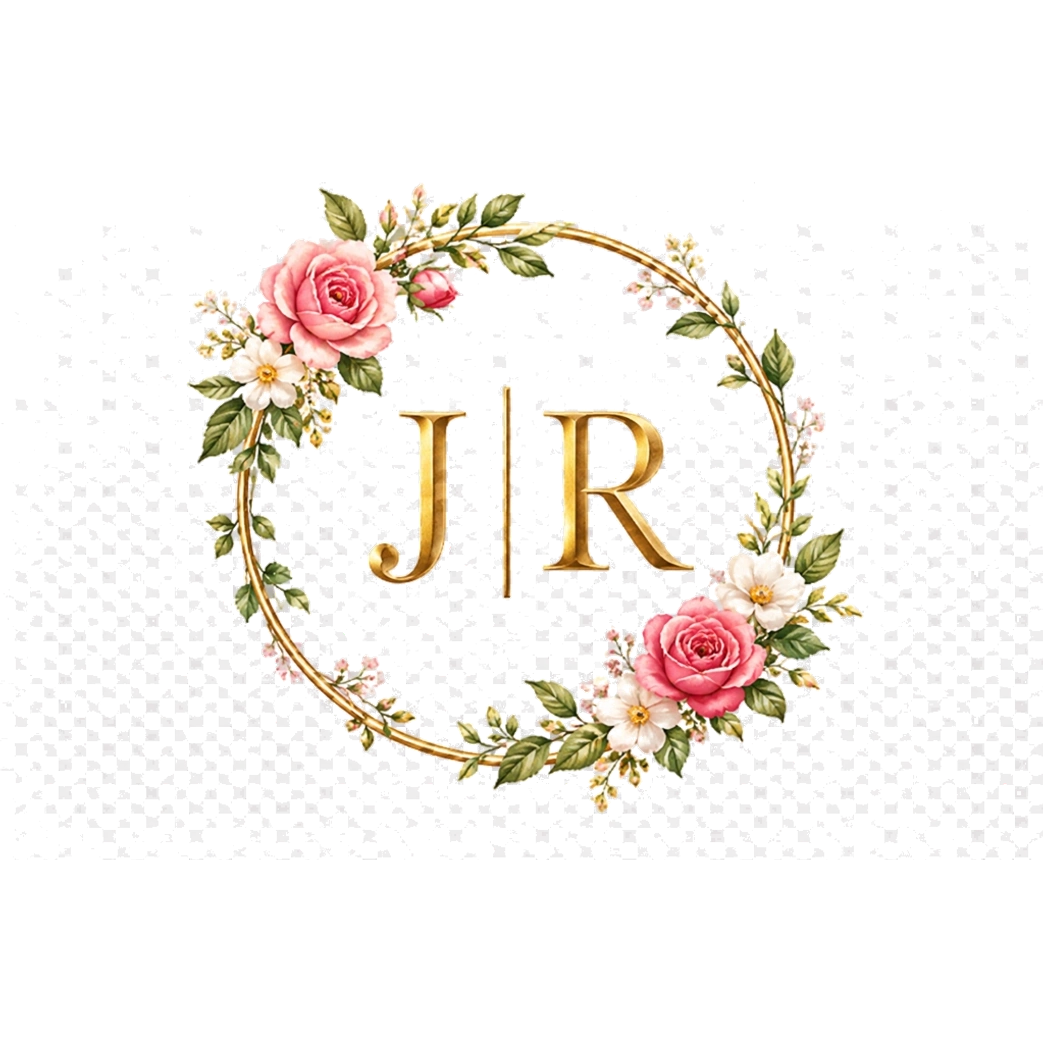
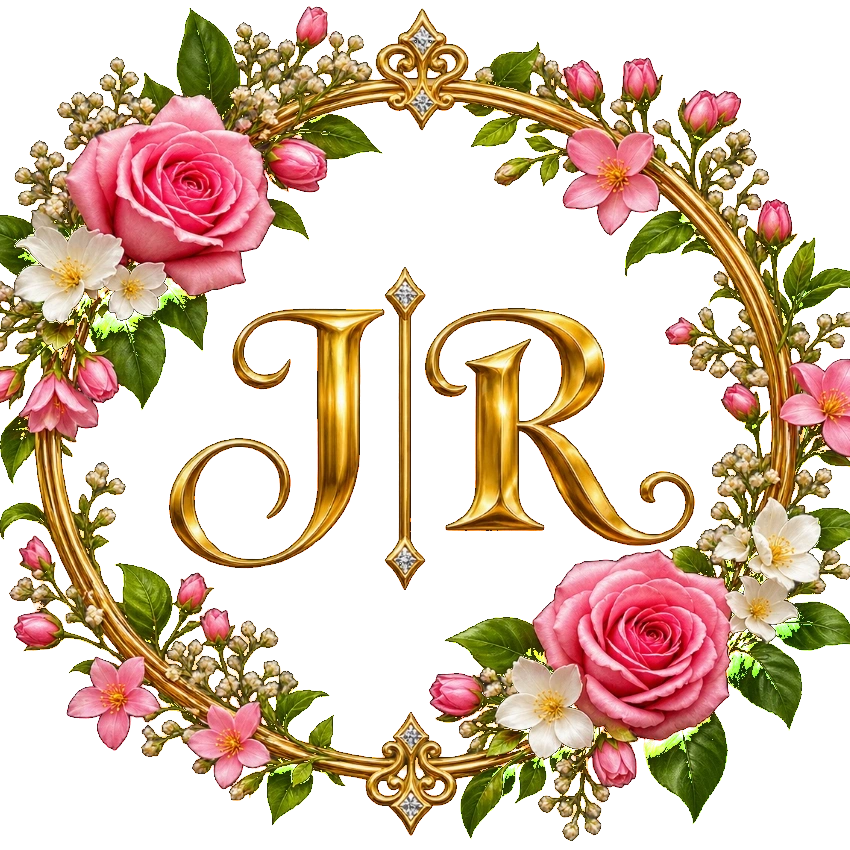
Update monogram to Image 3, zoom out ceremony curtain, remove loose petals and animate corner blossom

diff --git a/src/sections/Events.tsx b/src/sections/Events.tsx
@@ -5,7 +5,6 @@ import { clock, weekdayDate } from "@/lib/dates";
 import { gsap, tokens } from "@/lib/gsap";
 import { useScene } from "@/lib/scene";
 import AddToCalendar from "@/components/AddToCalendar";
-import { BloomingFlower } from "@/components/Ornaments";
 import Pic, { Sprite } from "@/components/Pic";
 import "./events.css";
 
@@ -51,42 +50,28 @@ export default function Events() {
       scrollTrigger: { trigger: q(".ev-list")[0], start: "top 62%", end: "bottom 62%", scrub: true },
     });
     items.forEach((item) => {
-      // Timeline marker flower blooming animation on scroll
-      const flower = item.querySelector(".ev-timeline-flower");
-      if (flower) {
-        const leaves = flower.querySelectorAll(".bf-leaf");
-        const petals = flower.querySelectorAll(".bf-petal");
-        const center = flower.querySelector(".bf-center");
-
-        gsap.set(leaves, { scale: 0.22, rotation: (idx: number) => (idx % 2 === 0 ? -28 : 28), opacity: 0.25, transformOrigin: "0px 0px" });
-        gsap.set(petals, { scale: 0.15, rotation: (idx: number) => -18 + idx * 4, opacity: 0.2, transformOrigin: "0px 0px" });
-        gsap.set(center, { scale: 0, opacity: 0, transformOrigin: "0px 0px" });
-
-        const tl = gsap.timeline({
-          scrollTrigger: { trigger: item, start: "top 62%", toggleActions: "play none none reverse" },
-        });
-        tl.to(leaves, { scale: 1, rotation: 0, opacity: 1, duration: 0.75, ease: "power2.out", stagger: 0.04 }, 0)
-          .to(petals, { scale: 1, rotation: 0, opacity: 1, duration: 0.95, ease: "back.out(1.4)", stagger: 0.06 }, 0.08)
-          .to(center, { scale: 1, opacity: 1, duration: 0.5, ease: "back.out(2)" }, 0.38);
+      // Timeline node blossom on scroll
+      const nodeBlossom = item.querySelector(".ev-node-blossom");
+      if (nodeBlossom) {
+        gsap.fromTo(nodeBlossom,
+          { scale: 0.25, rotation: -25, opacity: 0.3, transformOrigin: "50% 50%" },
+          {
+            scale: 1, rotation: 0, opacity: 1, duration: 0.85, ease: "back.out(1.5)",
+            scrollTrigger: { trigger: item, start: "top 62%", toggleActions: "play none none reverse" }
+          }
+        );
       }
 
-      // Mobile inline frame flower
-      const inlineFl = item.querySelector(".ev-inline-flower");
-      if (inlineFl) {
-        const leaves = inlineFl.querySelectorAll(".bf-leaf");
-        const petals = inlineFl.querySelectorAll(".bf-petal");
-        const center = inlineFl.querySelector(".bf-center");
-
-        gsap.set(leaves, { scale: 0.25, rotation: -25, opacity: 0.3, transformOrigin: "0px 0px" });
-        gsap.set(petals, { scale: 0.16, rotation: (idx: number) => -20 + idx * 4, opacity: 0.2, transformOrigin: "0px 0px" });
-        gsap.set(center, { scale: 0, opacity: 0, transformOrigin: "0px 0px" });
-
-        const tl = gsap.timeline({
-          scrollTrigger: { trigger: item, start: "top 68%", toggleActions: "play none none reverse" },
-        });
-        tl.to(leaves, { scale: 1, rotation: 0, opacity: 1, duration: 0.8, ease: "power2.out", stagger: 0.05 }, 0)
-          .to(petals, { scale: 1, rotation: 0, opacity: 1, duration: 1.0, ease: "back.out(1.4)", stagger: 0.07 }, 0.1)
-          .to(center, { scale: 1, opacity: 1, duration: 0.55, ease: "back.out(2)" }, 0.42);
+      // Mobile inline corner flower blossom
+      const inlineBlossom = item.querySelector(".ev-inline-blossom");
+      if (inlineBlossom) {
+        gsap.fromTo(inlineBlossom,
+          { scale: 0.2, rotation: -30, opacity: 0.25, transformOrigin: "50% 50%" },
+          {
+            scale: 1, rotation: 0, opacity: 1, duration: 1.0, ease: "back.out(1.6)",
+            scrollTrigger: { trigger: item, start: "top 68%", toggleActions: "play none none reverse" }
+          }
+        );
       }
 
       gsap.from(item.querySelectorAll(".ev-reveal"), {
@@ -103,36 +88,21 @@ export default function Events() {
     gsap.set(photos, { clipPath: "inset(100% 0% 0% 0%)", zIndex: 0 });
     gsap.set(photos[0], { clipPath: "inset(0% 0% 0% 0%)", zIndex: 1 });
 
-    // Desktop frame flower blooming animation: blossoms each time an event is revealed
-    const bloomStageFlower = () => {
-      const fl = q(".ev-stage-flower")[0];
-      if (!fl) return;
-      const leaves = fl.querySelectorAll(".bf-leaf");
-      const petals = fl.querySelectorAll(".bf-petal");
-      const center = fl.querySelector(".bf-center");
-      gsap.killTweensOf([leaves, petals, center]);
-      const tl = gsap.timeline();
-      tl.fromTo(leaves,
-        { scale: 0.28, rotation: (idx: number) => (idx % 2 === 0 ? -25 : 25), opacity: 0.4, transformOrigin: "0px 0px" },
-        { scale: 1, rotation: 0, opacity: 1, duration: 0.85, ease: "power2.out", stagger: 0.05 },
-        0
-      )
-      .fromTo(petals,
-        { scale: 0.18, rotation: (idx: number) => -18 + idx * 4, opacity: 0.3, transformOrigin: "0px 0px" },
-        { scale: 1, rotation: 0, opacity: 1, duration: 1.05, ease: "back.out(1.5)", stagger: 0.07 },
-        0.1
-      )
-      .fromTo(center,
-        { scale: 0, opacity: 0, transformOrigin: "0px 0px" },
-        { scale: 1, opacity: 1, duration: 0.55, ease: "back.out(2)" },
-        0.45
+    // Desktop corner flower blooming animation: only the corner of the flower blossoms on scroll
+    const bloomCornerFlower = () => {
+      const blossom = q(".ev-stage-blossom")[0];
+      if (!blossom) return;
+      gsap.killTweensOf(blossom);
+      gsap.fromTo(blossom,
+        { scale: 0.2, rotation: -35, opacity: 0.25, transformOrigin: "50% 50%" },
+        { scale: 1, rotation: 0, opacity: 1, duration: 1.1, ease: "back.out(1.5)" }
       );
     };
 
     let current = 0;
     const show = (i: number) => {
       if (i === current) return;
-      bloomStageFlower();
+      bloomCornerFlower();
       const down = i > current;
       const incoming = photos[i], outgoing = photos[current];
       // only two photographs are ever in play: the one leaving, and the one sliding in over it
@@ -196,9 +166,9 @@ export default function Events() {
                 </div>
               ))}
             </div>
-            <img src="/assets/img/botanical-gold-frame.webp" className="ev-frame-overlay" alt="" aria-hidden="true" />
-            <div className="ev-frame-flower-wrap" aria-hidden="true">
-              <BloomingFlower size="100%" className="ev-stage-flower" idPrefix="stg" />
+            <img src="/assets/img/botanical-gold-frame-stem.webp" className="ev-frame-overlay" alt="" aria-hidden="true" />
+            <div className="ev-corner-bloom" aria-hidden="true">
+              <img src="/assets/img/corner-blossom.webp" className="ev-stage-blossom" alt="" />
             </div>
           </div>
           <p className="ev-caption caption">
@@ -225,16 +195,16 @@ export default function Events() {
             const photo = PHOTOS[e.id] ?? PHOTOS.ceremony;
             return (
               <li key={e.id} className="ev-item">
-                <div className="ev-flower-frame" aria-hidden="true">
-                  <BloomingFlower size={28} className="ev-timeline-flower" idPrefix={`tm-${e.id}`} />
+                <div className="ev-timeline-node" aria-hidden="true">
+                  <img src="/assets/img/corner-blossom.webp" className="ev-node-blossom" alt="" />
                 </div>
                 <figure className="ev-inline ev-botanical-frame" data-reveal="mask">
                   <div className="ev-inline-inner">
                     <Pic src={photo.src} alt={photo.alt} inner />
                   </div>
-                  <img src="/assets/img/botanical-gold-frame.webp" className="ev-frame-overlay" alt="" aria-hidden="true" />
-                  <div className="ev-frame-flower-wrap" aria-hidden="true">
-                    <BloomingFlower size="100%" className="ev-inline-flower" idPrefix={`inl-${e.id}`} />
+                  <img src="/assets/img/botanical-gold-frame-stem.webp" className="ev-frame-overlay" alt="" aria-hidden="true" />
+                  <div className="ev-corner-bloom" aria-hidden="true">
+                    <img src="/assets/img/corner-blossom.webp" className="ev-inline-blossom" alt="" />
                   </div>
                 </figure>
                 <p className="ev-label eyebrow ev-reveal">

diff --git a/src/components/Ornaments.tsx b/src/components/Ornaments.tsx
@@ -1,4 +1,3 @@
-import { useId } from "react";
 import { initials } from "@/content/wedding";
 
 /** Leaf positions along an open olive wreath (left half; the right half mirrors it). */
@@ -140,111 +139,6 @@ export function InvocationIcon({ className = "" }: { className?: string }) {
       <path className="draw" d="M32 34 C 27 30, 24 26, 23 21 C 28 23, 31 27, 32 34 C 33 27, 36 23, 41 21 C 40 26, 37 30, 32 34" />
       <path className="draw" d="M24 46 C 26 51, 38 51, 40 46" />
       <path className="draw" d="M20 54 H 44" />
-    </svg>
-  );
-}
-
-/** Realistic blooming watercolor flower with soft unfurling leaves and staggered petals. */
-export function BloomingFlower({
-  size = 40,
-  className = "",
-  idPrefix = "bf",
-}: {
-  size?: number | string;
-  className?: string;
-  idPrefix?: string;
-}) {
-  const uid = useId().replace(/:/g, "");
-  const pId = `${idPrefix}-${uid}`;
-
-  return (
-    <svg
-      className={`blooming-flower ${className}`}
-      width={size}
-      height={size}
-      viewBox="-60 -60 120 120"
-      role="img"
-      aria-hidden="true"
-      style={{ overflow: "visible" }}
-    >
-      <defs>
-        <radialGradient id={`${pId}-petal`} cx="50%" cy="100%" r="90%">
-          <stop offset="0%" stopColor="#913d44" />
-          <stop offset="18%" stopColor="#b6575e" />
-          <stop offset="45%" stopColor="#dd9893" />
-          <stop offset="75%" stopColor="#f0c2bd" />
-          <stop offset="100%" stopColor="#fae4e1" />
-        </radialGradient>
-        <linearGradient id={`${pId}-leaf`} x1="0%" y1="100%" x2="0%" y2="0%">
-          <stop offset="0%" stopColor="#3d4928" />
-          <stop offset="50%" stopColor="#556639" />
-          <stop offset="100%" stopColor="#7a8d56" />
-        </linearGradient>
-        <radialGradient id={`${pId}-center`} cx="45%" cy="45%" r="60%">
-          <stop offset="0%" stopColor="#fff5b8" />
-          <stop offset="35%" stopColor="#e8c252" />
-          <stop offset="70%" stopColor="#b58728" />
-          <stop offset="100%" stopColor="#541b20" />
-        </radialGradient>
-        <filter id={`${pId}-shadow`} x="-25%" y="-25%" width="150%" height="150%">
-          <feDropShadow dx="0" dy="1.5" stdDeviation="1.5" floodColor="#4a1a1e" floodOpacity="0.22" />
-        </filter>
-      </defs>
-
-      {/* Leaves group */}
-      <g className="bf-leaves">
-        <g className="bf-leaf bf-leaf-0" transform="rotate(-130) translate(0, -8)" style={{ transformOrigin: "0px 0px" }}>
-          <path d="M 0 0 C -12 -15, -20 -35, 0 -62 C 20 -35, 12 -15, 0 0 Z" fill={`url(#${pId}-leaf)`} stroke="#343e22" strokeWidth="0.8" />
-          <line x1="0" y1="0" x2="0" y2="-56" stroke="#2a321b" strokeWidth="0.8" opacity="0.6" />
-          <path d="M 0 -18 Q -7 -25, -12 -28 M 0 -30 Q -6 -37, -10 -40 M 0 -18 Q 7 -25, 12 -28 M 0 -30 Q 6 -37, 10 -40" stroke="#2a321b" strokeWidth="0.6" fill="none" opacity="0.5" />
-        </g>
-        <g className="bf-leaf bf-leaf-1" transform="rotate(120) translate(0, -8)" style={{ transformOrigin: "0px 0px" }}>
-          <path d="M 0 0 C -10 -12, -18 -28, 0 -52 C 18 -28, 10 -12, 0 0 Z" fill={`url(#${pId}-leaf)`} stroke="#343e22" strokeWidth="0.8" />
-          <line x1="0" y1="0" x2="0" y2="-46" stroke="#2a321b" strokeWidth="0.8" opacity="0.6" />
-        </g>
-        <g className="bf-leaf bf-leaf-2" transform="rotate(55) translate(0, -6)" style={{ transformOrigin: "0px 0px" }}>
-          <path d="M 0 0 C -11 -14, -19 -32, 0 -58 C 19 -32, 11 -14, 0 0 Z" fill={`url(#${pId}-leaf)`} stroke="#343e22" strokeWidth="0.8" />
-          <line x1="0" y1="0" x2="0" y2="-52" stroke="#2a321b" strokeWidth="0.8" opacity="0.6" />
-        </g>
-      </g>
-
-      {/* 5 Botanical Petals */}
-      <g className="bf-petals" filter={`url(#${pId}-shadow)`}>
-        {[0, 72, 144, 216, 288].map((angle, i) => (
-          <g
-            key={i}
-            className={`bf-petal bf-petal-${i}`}
-            transform={`rotate(${angle})`}
-            style={{ transformOrigin: "0px 0px" }}
-          >
-            <path
-              d="M 0 0 C -14 -16, -26 -30, -22 -46 C -19 -54, -6 -56, 0 -50 C 6 -56, 19 -54, 22 -46 C 26 -30, 14 -16, 0 0 Z"
-              fill={`url(#${pId}-petal)`}
-              stroke="#8e3d44"
-              strokeWidth="0.6"
-            />
-            <path
-              d="M 0 -8 Q -6 -24, -9 -42 M 0 -8 Q 0 -28, 0 -48 M 0 -8 Q 6 -24, 9 -42"
-              stroke="#7e2b32"
-              strokeWidth="0.5"
-              fill="none"
-              opacity="0.35"
-            />
-          </g>
-        ))}
-      </g>
-
-      {/* Golden Floral Center */}
-      <g className="bf-center" style={{ transformOrigin: "0px 0px" }}>
-        <circle cx="0" cy="0" r="14" fill="#4d171d" />
-        <circle cx="0" cy="0" r="10.5" fill={`url(#${pId}-center)`} />
-        <circle cx="-5" cy="-5" r="1.6" fill="#fffbe0" />
-        <circle cx="5" cy="-5" r="1.6" fill="#fffbe0" />
-        <circle cx="6" cy="3" r="1.6" fill="#fffbe0" />
-        <circle cx="-1" cy="7" r="1.6" fill="#fffbe0" />
-        <circle cx="-6" cy="2" r="1.6" fill="#fffbe0" />
-        <circle cx="0" cy="0" r="2.4" fill="#350f13" />
-      </g>
     </svg>
   );
 }

diff --git a/src/sections/events.css b/src/sections/events.css
@@ -77,53 +77,53 @@
 @media (min-width: 1024px) { .ev-vine { left: 14px; } }
 
 .ev-item { position: relative; display: grid; justify-items: start; gap: 8px; }
-.ev-flower-frame {
+.ev-timeline-node {
   position: absolute;
   left: -48px;
   top: -2px;
   width: 36px;
   height: 36px;
   border-radius: 50%;
-  background: radial-gradient(circle, #fffdf9 40%, #fbf5eb 100%);
+  background: radial-gradient(circle, #fffdfa 40%, #fbf5eb 100%);
   border: 1.5px solid var(--gold);
   box-shadow: 0 2px 10px rgba(122, 94, 42, 0.22), 0 0 0 4px var(--ivory);
   display: flex;
   align-items: center;
   justify-content: center;
   z-index: 3;
-  overflow: visible;
+  overflow: hidden;
 }
 @media (min-width: 1024px) {
-  .ev-flower-frame {
+  .ev-timeline-node {
     left: -56px;
     width: 38px;
     height: 38px;
     top: -2px;
   }
 }
-.ev-timeline-flower {
-  width: 100%;
-  height: 100%;
-  overflow: visible;
+.ev-node-blossom {
+  width: 84%;
+  height: 84%;
+  object-fit: contain;
+  display: block;
 }
 
-.ev-frame-flower-wrap {
+.ev-corner-bloom {
   position: absolute;
   left: 23.8%;
   top: 20.9%;
+  width: 20.3%;
+  aspect-ratio: 1 / 1;
   translate: -50% -50%;
-  width: 28%;
-  height: 28%;
   pointer-events: none;
   z-index: 6;
-  filter: drop-shadow(0 4px 14px rgba(41, 69, 53, 0.28));
-  overflow: visible;
+  filter: drop-shadow(0 4px 10px rgba(41, 69, 53, 0.22));
 }
-.ev-stage-flower, .ev-inline-flower {
+.ev-stage-blossom, .ev-inline-blossom {
   width: 100%;
   height: 100%;
   display: block;
-  overflow: visible;
+  object-fit: contain;
 }
 
 .ev-inline {

diff --git a/src/sections/ceremony.css b/src/sections/ceremony.css
@@ -79,14 +79,14 @@
 .crys {
   position: absolute;
   top: 0;
-  height: 100%;
+  height: 92%;
   width: 52%;
-  object-fit: cover;
+  object-fit: contain;
   pointer-events: none;
   z-index: 4;
   will-change: transform;
   transform-origin: 50% 0%;
-  filter: drop-shadow(0 8px 24px rgba(0, 0, 0, 0.28));
+  filter: drop-shadow(0 6px 18px rgba(0, 0, 0, 0.22));
 }
 .crys--l {
   left: 0;
@@ -95,6 +95,12 @@
 .crys--r {
   right: 0;
   object-position: top left;
+}
+@media (min-width: 1024px) {
+  .crys {
+    height: 90%;
+    width: 52%;
+  }
 }
 [data-tier="C"] .crys { display: none; }
 
